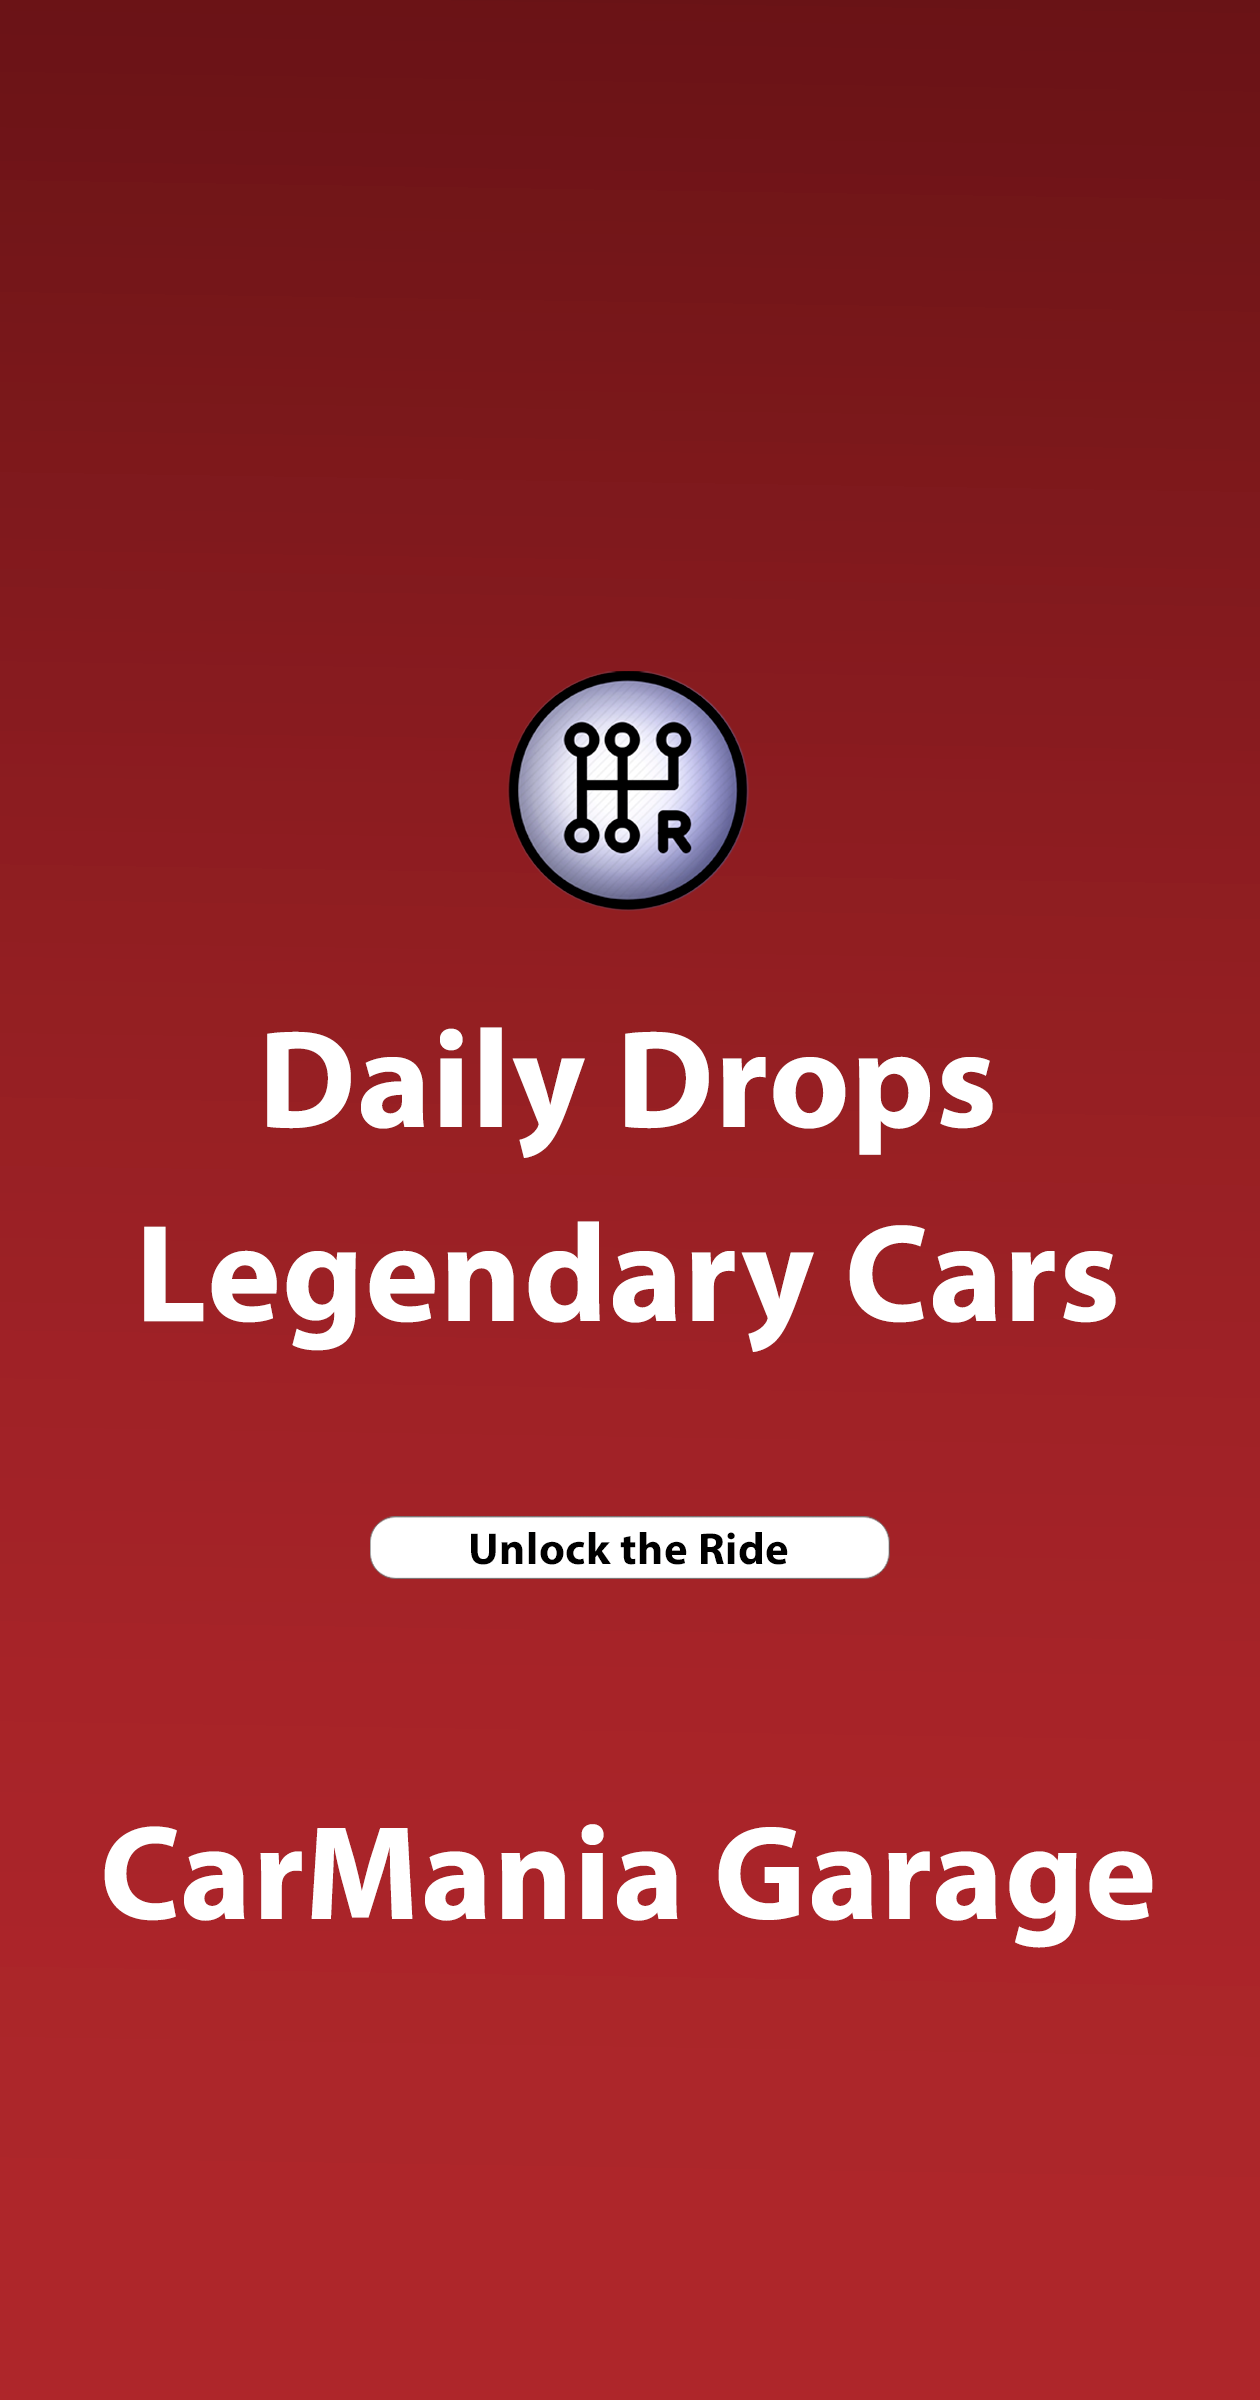
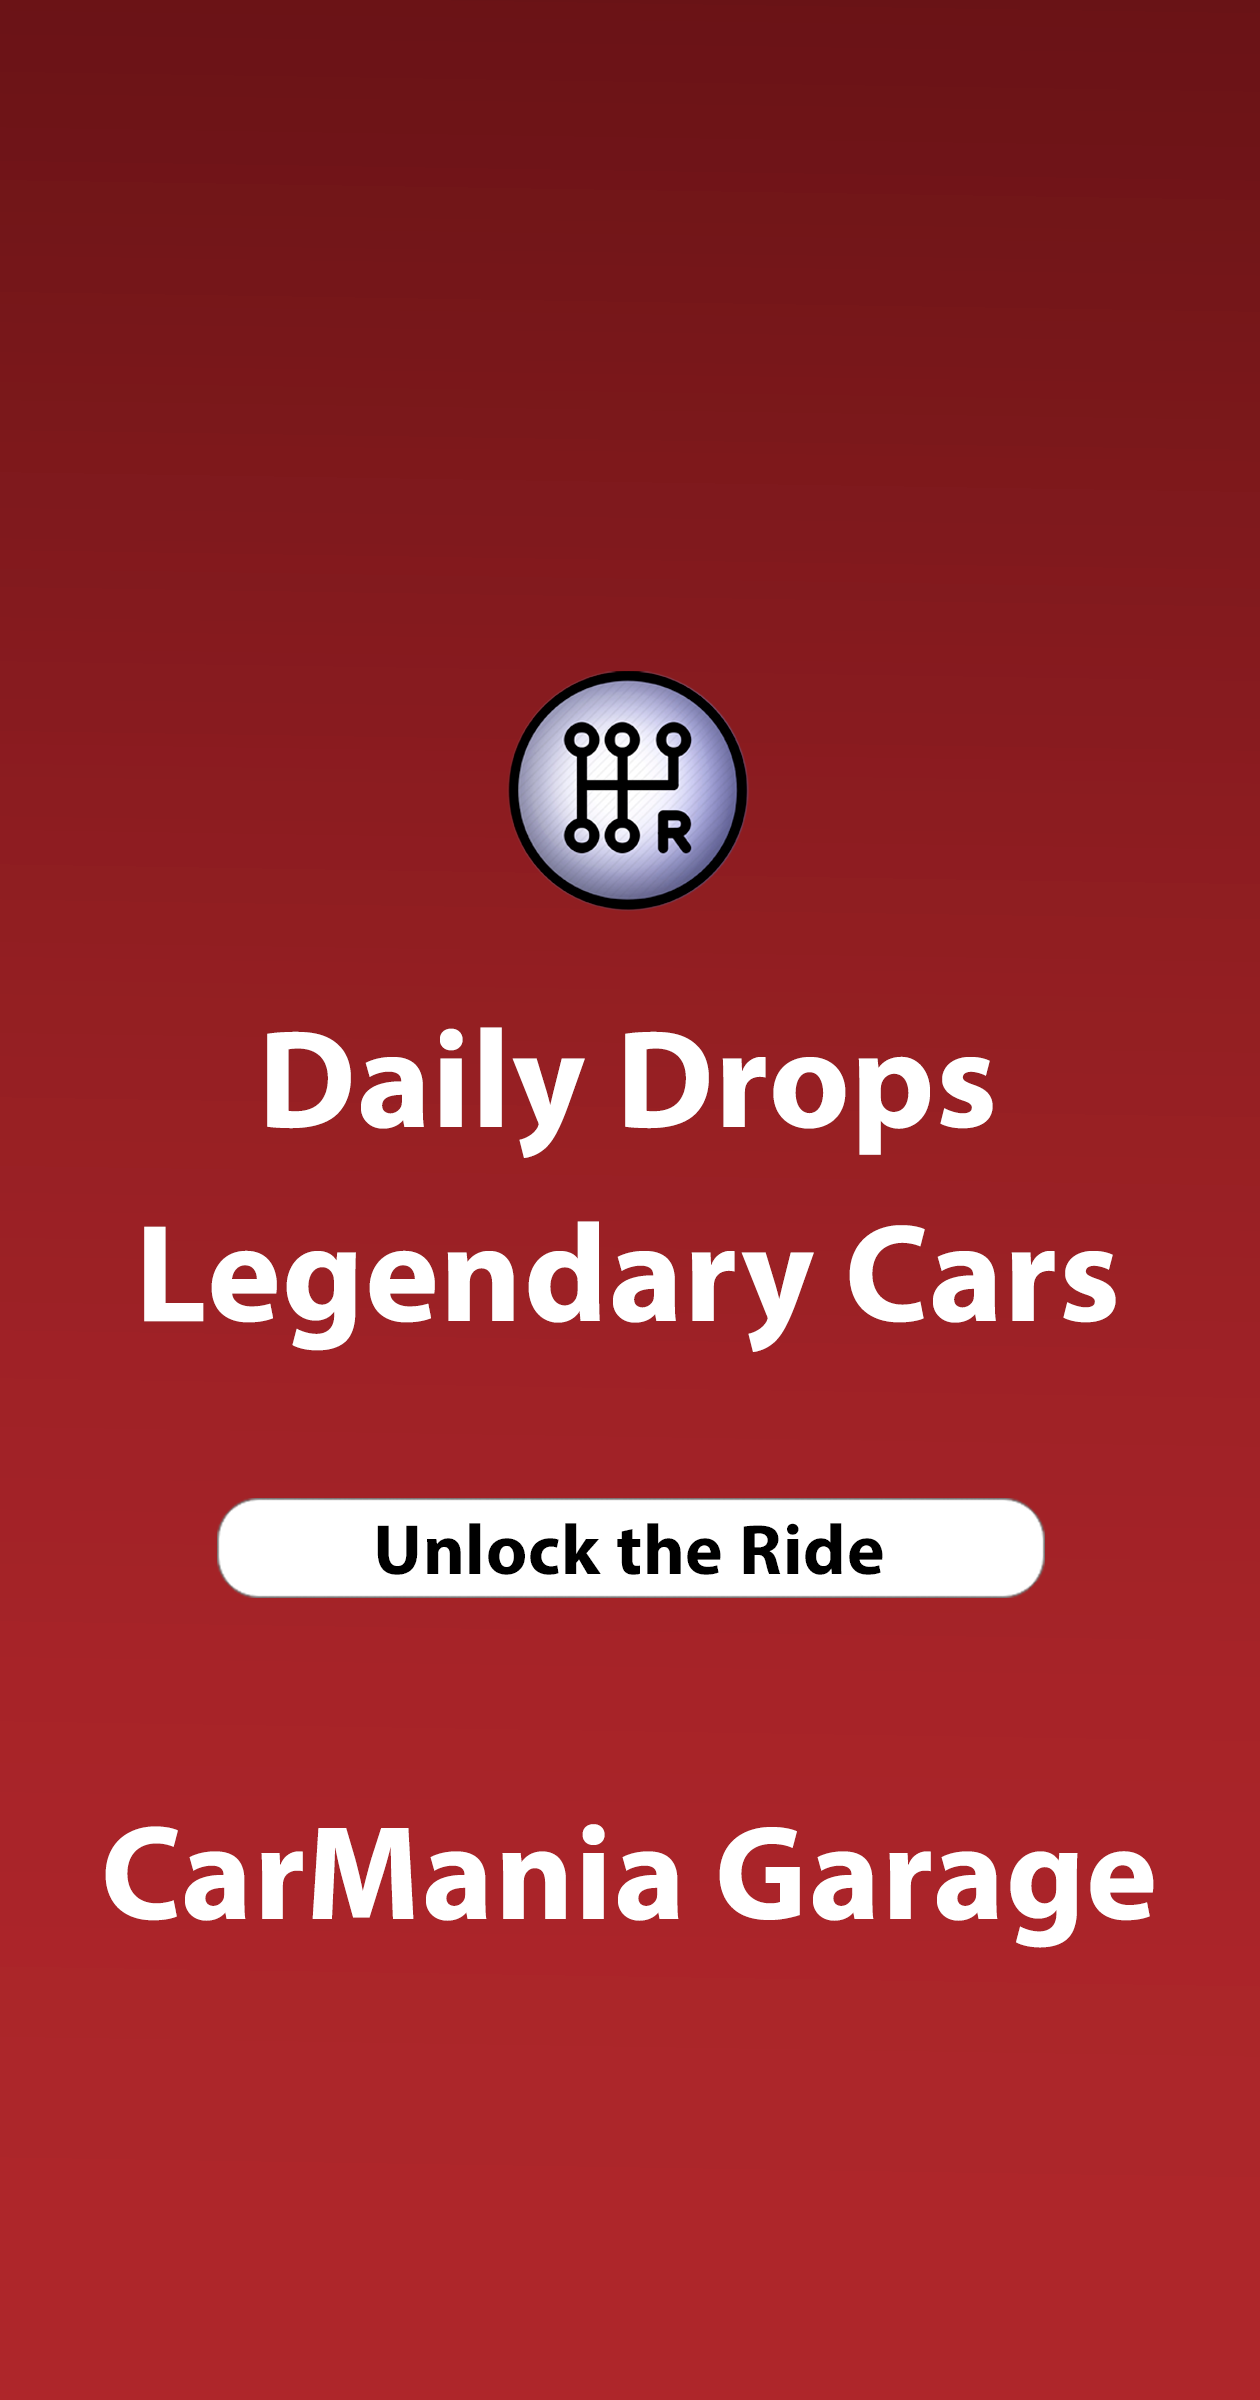
Expand text-page button width to 71.4% for better mobile UX

Changed region(s): [[0.1548, 0.625, 0.8357, 0.6875]]

diff --git a/coinbase/fc-minikit/app/text-page/page.tsx b/coinbase/fc-minikit/app/text-page/page.tsx
@@ -243,7 +243,7 @@ export default function TextPage() {
               left: '50%',
               top: '63.6%', // Centered vertically
               transform: 'translateX(-50%)', // Centers the button horizontally
-              width: '24%', // Approximately 300px / 1260px = 24%
+              width: '71.4%', // 900px / 1260px = 71.4%
               height: '2%', // Approximately 50px / 2400px = 2%
               background: 'transparent', // Invisible background
               border: 'none', // No border
